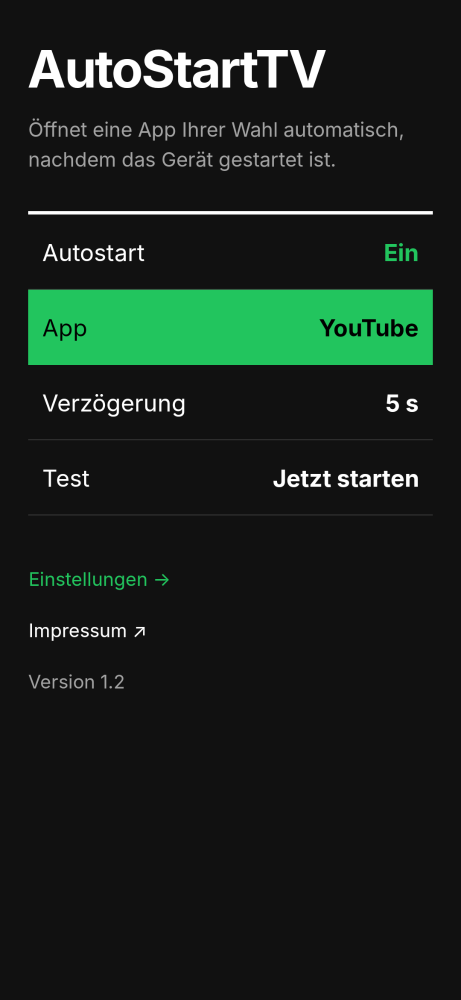
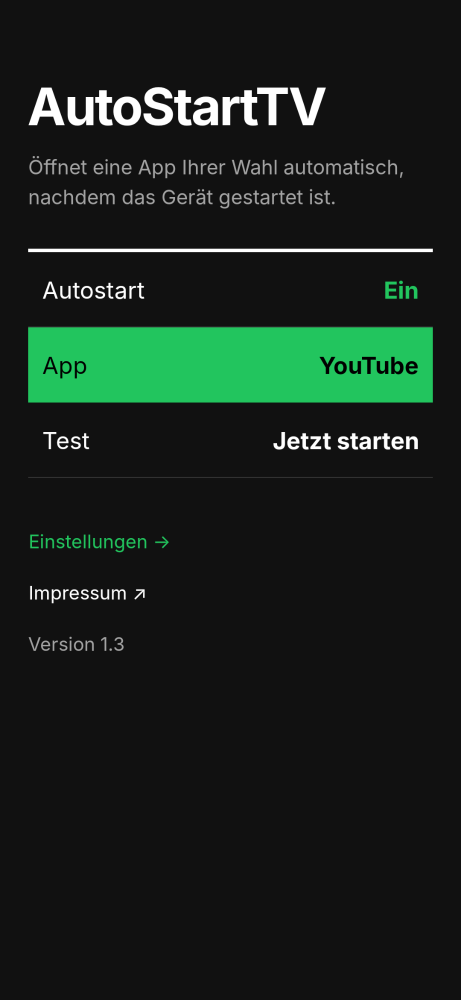
Delay moved to settings, lower content, landscape layout, APK naming
- Delay is now set on the settings page
- Content starts a bit lower on every screen
- Own two-column layout for phones in landscape; TV layout chosen by
  width and height so wide phones no longer get it
- APK is named AutoStartTV_<YYYYMMDD><major>-<minor>.apk; version 1.3

Claude-Session: https://claude.ai/code/session_01Mzgtb4TiVnagej2P19AmY4

diff --git a/app/src/main/java/de/autostarttv/SettingsActivity.java b/app/src/main/java/de/autostarttv/SettingsActivity.java
@@ -5,30 +5,41 @@ import android.os.Bundle;
 import android.view.View;
 import android.widget.TextView;
 
+import java.util.ArrayList;
 import java.util.Collections;
+import java.util.List;
 
-/** Settings page: shows and grants the permission needed for autostart. */
+/** Settings page: start delay and the permission needed for autostart. */
 public class SettingsActivity extends Activity {
 
+    private Settings settings;
+    private TextView delayValue;
     private TextView permissionValue;
 
     @Override
     protected void onCreate(Bundle savedInstanceState) {
         super.onCreate(savedInstanceState);
         setContentView(R.layout.activity_settings);
+        settings = new Settings(this);
+
+        View delayRow = findViewById(R.id.row_delay);
+        ((TextView) delayRow.findViewById(R.id.row_label)).setText(R.string.delay);
+        delayValue = delayRow.findViewById(R.id.row_value);
+        delayRow.setOnClickListener(v -> chooseDelay());
 
         View row = findViewById(R.id.row_permission);
         ((TextView) row.findViewById(R.id.row_label)).setText(R.string.permission);
         permissionValue = row.findViewById(R.id.row_value);
         row.setOnClickListener(v -> grantPermission());
         if (savedInstanceState == null) {
-            row.requestFocus();
+            delayRow.requestFocus();
         }
     }
 
     @Override
     protected void onResume() {
         super.onResume();
+        updateDelay();
         boolean missing = Permissions.isMissing(this);
         if (!Permissions.isNeeded()) {
             permissionValue.setText(R.string.permission_not_needed);
@@ -36,6 +47,27 @@ public class SettingsActivity extends Activity {
             permissionValue.setText(missing ? R.string.permission_missing : R.string.permission_granted);
         }
         Ui.setAccent(permissionValue, missing);
+    }
+
+    private void updateDelay() {
+        delayValue.setText(getString(R.string.delay_value, settings.getDelaySeconds()));
+    }
+
+    private void chooseDelay() {
+        int[] delays = Settings.DELAYS;
+        List<String> labels = new ArrayList<>(delays.length);
+        int selected = -1;
+        for (int i = 0; i < delays.length; i++) {
+            labels.add(getResources().getQuantityString(R.plurals.seconds, delays[i], delays[i]));
+            if (delays[i] == settings.getDelaySeconds()) {
+                selected = i;
+            }
+        }
+        ChoiceDialog.show(this, getString(R.string.choose_delay), null, labels, null, selected,
+                index -> {
+                    settings.setDelaySeconds(delays[index]);
+                    updateDelay();
+                });
     }
 
     private void grantPermission() {

diff --git a/app/src/main/java/de/autostarttv/MainActivity.java b/app/src/main/java/de/autostarttv/MainActivity.java
@@ -21,7 +21,6 @@ public class MainActivity extends Activity {
 
     private TextView enabledValue;
     private TextView appValue;
-    private TextView delayValue;
     private TextView settingsLink;
     private boolean appDialogPending;
 
@@ -36,7 +35,6 @@ public class MainActivity extends Activity {
 
         enabledValue = setupRow(R.id.row_enabled, R.string.autostart, v -> toggleEnabled());
         appValue = setupRow(R.id.row_app, R.string.app, v -> chooseApp());
-        delayValue = setupRow(R.id.row_delay, R.string.delay, v -> chooseDelay());
         setupRow(R.id.row_test, R.string.test, v -> testLaunch()).setText(R.string.test_value);
 
         settingsLink = findViewById(R.id.text_settings);
@@ -71,7 +69,6 @@ public class MainActivity extends Activity {
 
         String label = AppLauncher.getLabel(this, settings.getPackage());
         appValue.setText(label != null ? label : getString(R.string.app_none));
-        delayValue.setText(getString(R.string.delay_value, settings.getDelaySeconds()));
 
         // Highlight the settings link while the permission is missing.
         Ui.setAccent(settingsLink, Permissions.isMissing(this));
@@ -116,23 +113,6 @@ public class MainActivity extends Activity {
                         updateViews();
                     });
         });
-    }
-
-    private void chooseDelay() {
-        int[] delays = Settings.DELAYS;
-        List<String> labels = new ArrayList<>(delays.length);
-        int selected = -1;
-        for (int i = 0; i < delays.length; i++) {
-            labels.add(getResources().getQuantityString(R.plurals.seconds, delays[i], delays[i]));
-            if (delays[i] == settings.getDelaySeconds()) {
-                selected = i;
-            }
-        }
-        ChoiceDialog.show(this, getString(R.string.choose_delay), null, labels, null, selected,
-                index -> {
-                    settings.setDelaySeconds(delays[index]);
-                    updateViews();
-                });
     }
 
     private void testLaunch() {

diff --git a/README.md b/README.md
@@ -6,8 +6,8 @@ Android-TV-App, die nach dem Einschalten des Fernsehers automatisch eine gewähl
 Sprachen: Deutsch und Englisch (folgt der Systemsprache).
 
 Gestaltung im Swiss Style, dunkel: Schwarz, Weiß, ein grüner Akzent, Grotesk-Schrift (Inter), klares Raster.
-Das Layout passt sich an: zwei Spalten auf Fernsehern und großen Bildschirmen,
-eine Spalte auf Handys und Tablets. Bedienbar mit Fernbedienung und Touch.
+Das Layout passt sich an: zwei Spalten auf Fernsehern und im Querformat,
+eine Spalte im Hochformat. Bedienbar mit Fernbedienung und Touch.
 
 <img src="docs/screenshot-tv.png" width="560" alt="AutoStartTV auf dem Fernseher">
 <img src="docs/screenshot-phone.png" width="200" alt="AutoStartTV auf dem Handy">
@@ -17,9 +17,9 @@ eine Spalte auf Handys und Tablets. Bedienbar mit Fernbedienung und Touch.
 1. AutoStartTV öffnen.
 2. **App** wählen und die gewünschte App auswählen.
 3. **Autostart** steht dann auf *Ein* (umschalten mit OK).
-4. Optional **Verzögerung** einstellen (0–30 Sekunden nach dem Start).
-5. **Einstellungen →** öffnen (grün hervorgehoben, solange etwas fehlt) und
-   „Über anderen Apps einblenden“ erteilen.
+4. **Einstellungen →** öffnen (grün hervorgehoben, solange etwas fehlt):
+   - optional **Verzögerung** einstellen (0–30 Sekunden nach dem Start),
+   - „Über anderen Apps einblenden“ erteilen.
    Ab Android 10 darf eine App nur mit dieser Berechtigung andere Apps im Hintergrund starten.
    Hat der Fernseher dafür keine Einstellung, per Computer:
    ```
@@ -34,10 +34,13 @@ Impressum: https://maltethier.de/impressum.html
 ```
 ./gradlew assembleRelease
 ```
-Die APK liegt danach unter `app/build/outputs/apk/release/`.
+Die APK liegt danach unter `app/build/outputs/apk/release/` und heißt
+`AutoStartTV_<JJJJMMTT><Versionsnummer>-<Zwischennummer>.apk`,
+z. B. `AutoStartTV_202611261-3.apk` (gebaut am 26.11.2026, Version 1.3).
+Die Version wird in `app/build.gradle.kts` über `versionMajor` und `versionMinor` gesetzt.
 Bei jedem Push baut GitHub Actions die APK automatisch (Reiter *Actions* → Artefakt *AutoStartTV*).
 
-Installation auf dem Fernseher z. B. per `adb install app-release.apk`.
+Installation auf dem Fernseher z. B. per `adb install AutoStartTV_202611261-3.apk`.
 
 ---
 
